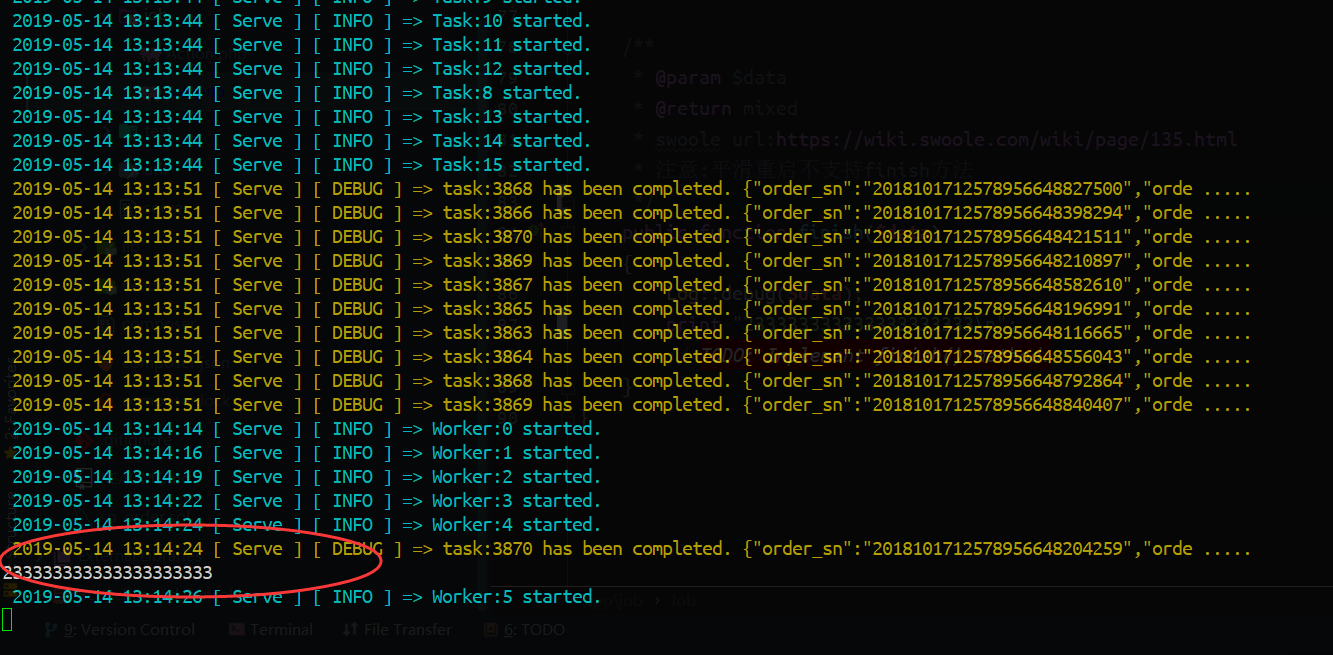
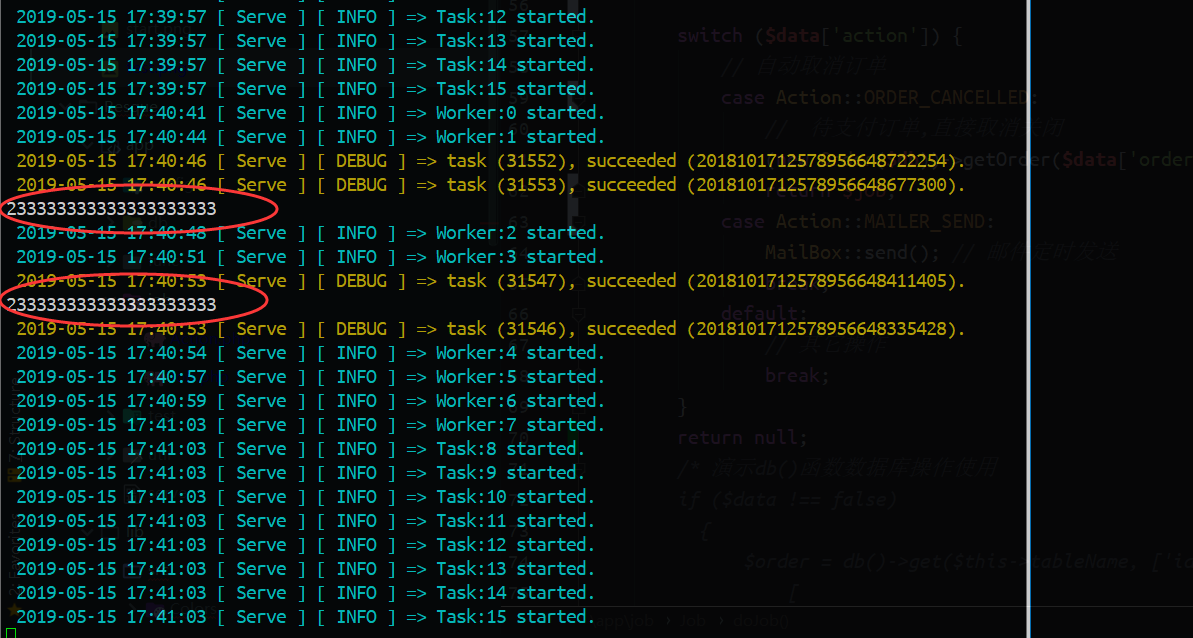
fix:界面修改以及部分问题

diff --git a/Resque/lib/src/Resque/Serve.php b/Resque/lib/src/Resque/Serve.php
@@ -28,14 +28,17 @@ class Serve extends Server implements IEvent
 
         try {
             if (!class_exists(Job::class)) {
-                throw new JobMissingException();
+                throw new JobMissingException([
+                    'code' => -1,
+                    'message' => 'The Job class is not defined.'
+                ]);
             }
             $this->job = new Job();
 
             if ($this->job instanceof IJob === false) {
                 throw new JobMissingException([
                     'code' => -2,
-                    'message' => 'The Job class is not defined.'
+                    'message' => 'The Job class does not implement the IJob interface.'
                 ]);
             }
         } catch (JobMissingException $e) {
@@ -45,12 +48,13 @@ class Serve extends Server implements IEvent
         }
 
         if ($server->taskworker) {
-            Process::daemonize("Task:{$workerId}");
-            Log::info("Task:{$workerId} started.");
+            //(worker:01) started.
+            Process::daemonize("(task:{$workerId})");
+            Log::info("Serve (task:{$workerId}) started.");
             $server->pdo = ClientFactory::makeClient('mysql');
         } else {
-            Process::daemonize("Worker:{$workerId}");
-            Log::info("Worker:{$workerId} started.");
+            Process::daemonize("(worker:{$workerId})");
+            Log::info("Serve (worker:{$workerId}) started.");
             $server->redis = ClientFactory::makeClient('redis');
 
             try {
@@ -58,7 +62,7 @@ class Serve extends Server implements IEvent
                 $server->tick(1000, function ($timerId) use ($server) {
                     $data = $this->job->getData($server->redis);
                     // 只要消息不为空,就投递
-                    if (!empty($data) && is_string($data)) {
+                    if ($this->valueString($data) !== false) {
                         $server->task($data);
                     }
                     // todo:: 某种情况关闭计时器 $server->clearTimer($timerId);
@@ -73,10 +77,11 @@ class Serve extends Server implements IEvent
     {
         $job = json_decode($data, true);
         if (!empty($job)) {
-            $this->job->doJob($server->pdo, $job);
-            $pid = posix_getpid();
-            $data = "task:{$pid} has been completed. " . substr($data, 0, 45) . ' .....';
-            $server->finish($data);
+            // 返回不是空的并且是字符串就发送给finish 回调函数处理任务
+            $done = $this->job->doJob($server->pdo, $job);
+            if ($this->valueString($done) !== false) {
+                $server->finish($done);
+            }
         } else {
             Log::debug($data);
         }
@@ -93,5 +98,18 @@ class Serve extends Server implements IEvent
     final public function run()
     {
         $this->getSwoole()->start();
+    }
+
+    /**
+     * @param $data
+     * @return bool
+     * 非空并且为字符串
+     */
+    private function valueString($data): bool
+    {
+        if (!empty($data) && is_string($data)) {
+            return true;
+        }
+        return false;
     }
 }

diff --git a/Resque/lib/src/Core/Command.php b/Resque/lib/src/Core/Command.php
@@ -48,39 +48,49 @@ class Command
         $cmd = strtolower($this->cmd);
         switch ($cmd) {
             case 'start':
-                if (!ControlPanel::isRunning()) {
+                $running = ControlPanel::isRunning();
+                // 没有运行
+                if (!$running) {
                     (new Serve())->run();
-                } else {
+                }
+                // 已经运行
+                if ($running) {
                     $masterPid = Process::getMasterPid();
                     Log::info("{$this->name} is running, Master pid is: {$masterPid}.");
                 }
                 break;
             case 'stop':
-                if (ControlPanel::isRunning()) {
-                    if (ControlPanel::stop()) {
+                $isRunning = ControlPanel::isRunning();
+                // 已经运行进行stop
+                if ($isRunning) {
+                    $stopped = ControlPanel::stop();
+                    if ($stopped) {
                         Log::info("{$this->name} has stopped.");
-                    } else {
-                        // stop error
-                        Log::error("{$this->name} 服务停止失败.");
+                        break;
                     }
-                } else {
-                    Log::info("{$this->name} is not running.");
+                    Log::error("{$this->name} 服务停止失败.");
+                    break;
                 }
+                Log::info("{$this->name} is not running.");
                 break;
             case 'reload:all':
                 // 1. reload worker and task process.
-                if (ControlPanel::reloadAll()) {
+                $reload = ControlPanel::reloadAll();
+                // reload 成功
+                if ($reload) {
                     Log::info("Reload task and worker succeeded in the process");
-                } else {
-                    Log::info("{$this->name} is not running.");
+                    break;
                 }
+                Log::info("{$this->name} is not running.");
                 break;
             case 'reload':
-                if (ControlPanel::reloadTask()) {
+                $task = ControlPanel::reloadTask();
+                // task 是否运行
+                if ($task) {
                     Log::info("Reload task succeeded in the process.");
-                } else {
-                    Log::info("{$this->name} is not running.");
+                    break;
                 }
+                Log::info("{$this->name} is not running.");
                 break;
             default:
                 exit($this->help . PHP_EOL);

diff --git a/Resque/app/job/Job.php b/Resque/app/job/Job.php
@@ -47,22 +47,30 @@ class Job implements IJob
      * @param $data getData() 取出来的数据
      * 业务逻辑操作
      */
-    public function doJob($db, $data): void
+    public function doJob($db, array $data): ?string
     {
-//        var_dump($data);
+        $pid = posix_getpid();
+        $job = "task ({$pid}), succeeded ({$data['order_sn']}).";
+
+        // 举例子：带颜色的打印信息
+//        Color::println("233333333333333333333", ColorText::FG_LIGHT_RED);
+
         switch ($data['action']) {
-            // 自动取消订单
-            case Action::CANCELLED:
-                //  待支付订单,直接取消关闭
+            // 超时自动取消订单
+            case Action::ORDER_CANCELLED:
+                // 15分钟未支付,自动关闭订单
                 (new Order($db))->getOrder($data['order_sn'])->cancelled();
-                break;
-            case Action::SEND_EMAIL:
+                // 通过 return 把 $data 传递给FINISH. -> 具体看SWOOLE 文档哈
+                return $job;
+            case Action::MAILER_SEND:
                 MailBox::send(); // 邮件定时发送
                 break;
             default:
                 // 其它操作
                 break;
         }
+        // 如果不想要调用Finish 方法,返回null
+        return null;
         /* 演示db()函数数据库操作使用
         if ($data !== false)
           {
@@ -83,8 +91,9 @@ class Job implements IJob
      */
     public function finish($data)
     {
-        Log::debug($data);
-//        print "233333333333333333333\n";
+        if (!empty($data)) {
+            Log::debug($data);
+        }
         // TODO: Implement finish() method.
     }
 }

diff --git a/Resque/lib/src/Core/Log.php b/Resque/lib/src/Core/Log.php
@@ -77,7 +77,7 @@ class Log
 
     private static function setTextFormat($level, $text = ''): string
     {
-        return sprintf("%s [ Serve ] [ {$level} ] => {$text}", date('Y-m-d H:i:s'));
+        return sprintf("%s [ {$level} ] => {$text}", date('Y-m-d H:i:s'));
     }
 
     /**

diff --git a/Resque/app/job/Action.php b/Resque/app/job/Action.php
@@ -9,7 +9,7 @@ namespace app\job;
  */
 class Action
 {
-    const CANCELLED = -1; // 自动取消订单
+    const ORDER_CANCELLED = -1; // 自动取消订单
 
-    const SEND_EMAIL = 1; // 定时发送邮件
+    const MAILER_SEND = 1; // 定时发送邮件
 }

diff --git a/Resque/lib/src/Interfaces/IJob.php b/Resque/lib/src/Interfaces/IJob.php
@@ -23,7 +23,7 @@ interface IJob
      * @param $data getData() 取出来的数据
      * 业务逻辑操作
      */
-    public function doJob($pdo, $data);
+    public function doJob($db, array $data): ?string;
 
     /**
      * @param $data

diff --git a/Resque/lib/src/Exception/JobMissingException.php b/Resque/lib/src/Exception/JobMissingException.php
@@ -10,4 +10,5 @@ namespace Serve\Exception;
 class JobMissingException extends JobException
 {
 
+
 }

diff --git a/README.md b/README.md
@@ -45,6 +45,7 @@ php serve start
 
 ```php
 <?php
+
 namespace app\job;
 
 use app\db\Order;
@@ -92,22 +93,30 @@ class Job implements IJob
      * @param $data getData() 取出来的数据
      * 业务逻辑操作
      */
-    public function doJob($db, $data): void
+    public function doJob($db, array $data): ?string
     {
-//        var_dump($data);
+        $pid = posix_getpid();
+        $job = "task ({$pid}), succeeded ({$data['order_sn']}).";
+
+        // 举例子：带颜色的打印信息
+        Color::println("233333333333333333333", ColorText::FG_LIGHT_RED);
+
         switch ($data['action']) {
-            // 自动取消订单
-            case Action::CANCELLED:
-                //  待支付订单,直接取消关闭
+            // 超时自动取消订单
+            case Action::ORDER_CANCELLED:
+                // 15分钟未支付,自动关闭订单
                 (new Order($db))->getOrder($data['order_sn'])->cancelled();
-                break;
-            case Action::SEND_EMAIL:
+                // 通过 return 把 $data 传递给FINISH. -> 具体看SWOOLE 文档哈
+                return $job;
+            case Action::MAILER_SEND:
                 MailBox::send(); // 邮件定时发送
                 break;
             default:
                 // 其它操作
                 break;
         }
+        // 如果不想要调用Finish 方法,返回null
+        return null;
         /* 演示db()函数数据库操作使用
         if ($data !== false)
           {
@@ -117,8 +126,7 @@ class Job implements IJob
                   ]
               );
               var_dump($order);
-         }
-        */
+          }*/
     }
 
     /**
@@ -129,8 +137,9 @@ class Job implements IJob
      */
     public function finish($data)
     {
-        Log::debug($data);
-//        print "2333\n";
+        if (!empty($data)) {
+            Log::debug($data);
+        }
         // TODO: Implement finish() method.
     }
 }
